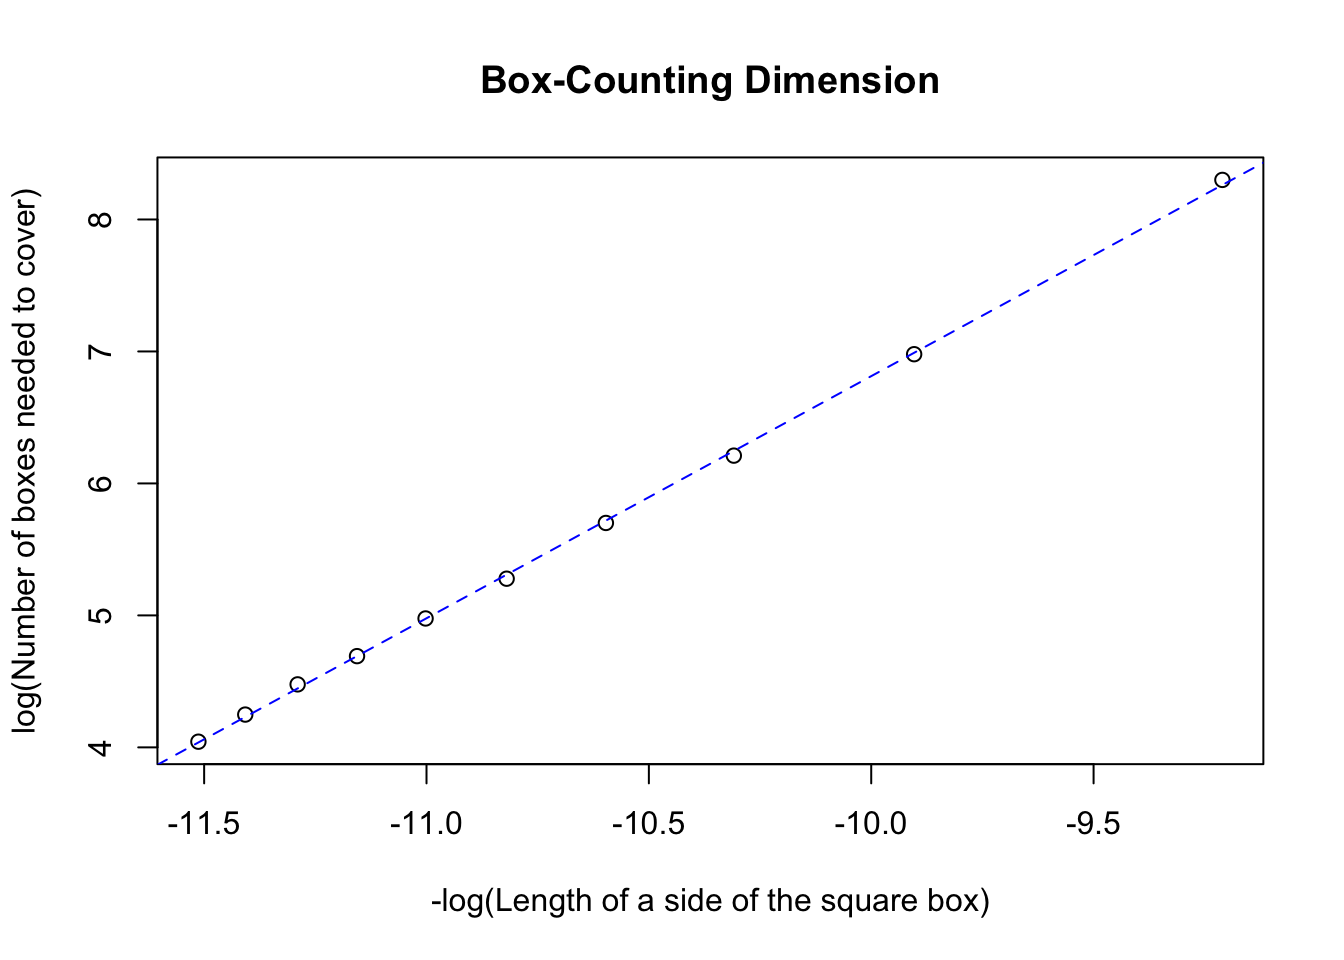
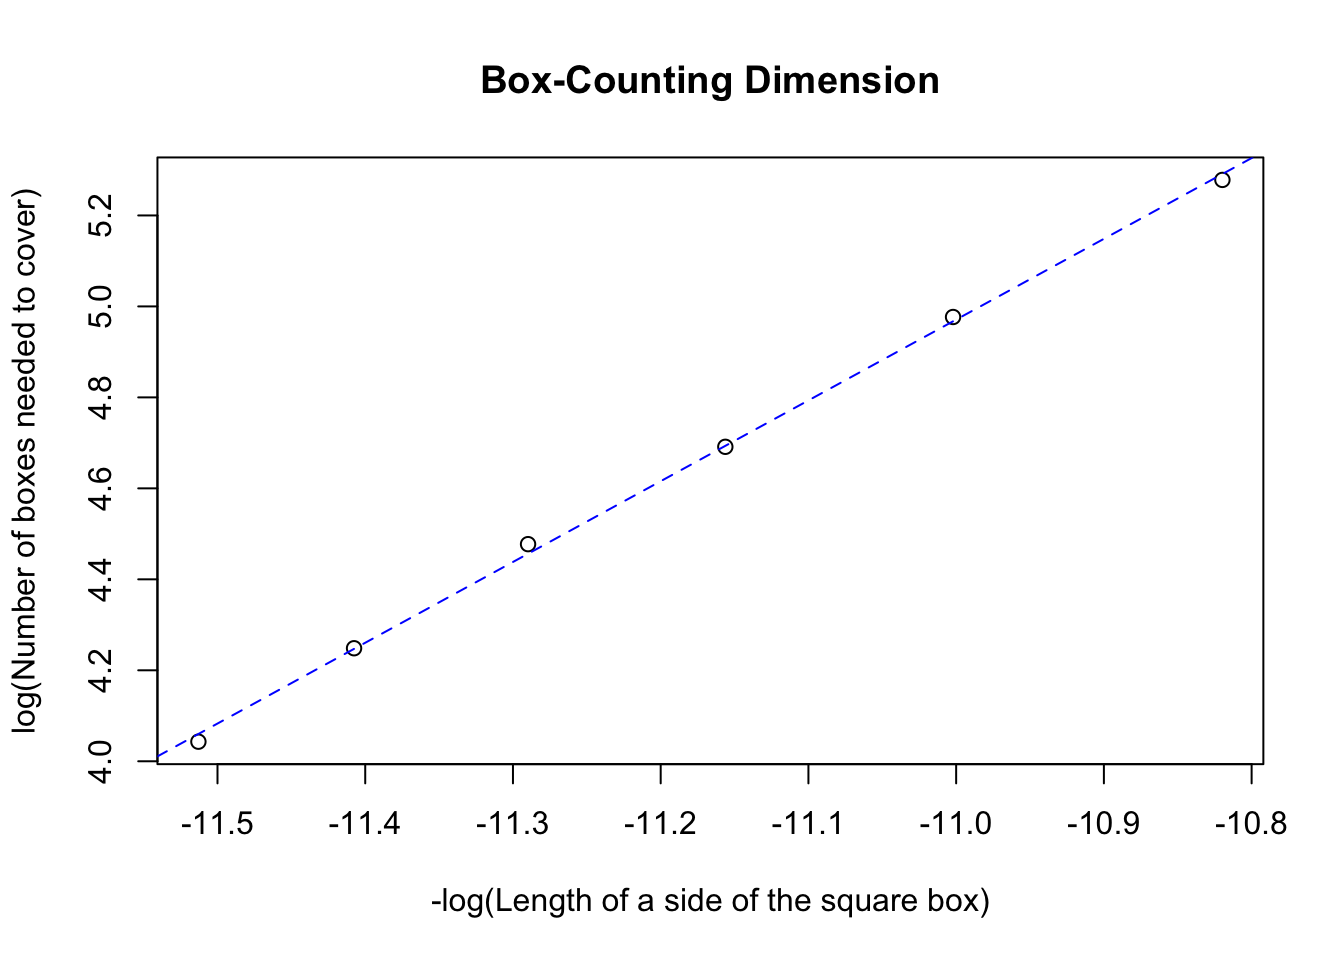
Built site for sameSVD: 0.2.0@f3ee008

diff --git a/articles/using_fdim.html b/articles/using_fdim.html
@@ -85,7 +85,7 @@
       <h1 data-toc-skip>Using sameSVD</h1>
                         <h4 class="author">Pramit Ghosh</h4>
             
-            <h4 class="date">2020-04-29</h4>
+            <h4 class="date">2020-05-12</h4>
       
       <small class="dont-index">Source: <a href="https://github.com/pramitghosh/sameSVD/blob/master/vignettes/using_fdim.Rmd"><code>vignettes/using_fdim.Rmd</code></a></small>
       <div class="hidden name"><code>using_fdim.Rmd</code></div>
@@ -125,7 +125,7 @@
 <ul>
 <li>If the feature is stored in an external file, it may be imported using the <code>dsn</code> and <code>layer</code> arguments in the function <code><a href="../reference/bcd.html">bcd()</a></code> along with any other arguments for <code><a href="https://rdrr.io/pkg/sf/man/st_read.html">sf::st_read()</a></code>. The <code>plot = TRUE</code> argument plots the scatterplot and the shows the best-fit line obtained from the simple linear regression. The default argument for <code>plot</code> is <code>FALSE</code>.</li>
 </ul>
-<div class="sourceCode" id="cb3"><html><body><pre class="r"><span class="fu"><a href="../reference/bcd.html">bcd</a></span>(<span class="kw">dsn</span> <span class="kw">=</span> <span class="fu"><a href="https://rdrr.io/r/base/system.file.html">system.file</a></span>(<span class="kw">package</span> <span class="kw">=</span> <span class="st">"sameSVD"</span>), <span class="kw">layer</span> <span class="kw">=</span> <span class="st">"madhya_pradesh"</span>, <span class="kw">plot</span> <span class="kw">=</span> <span class="fl">TRUE</span>)
+<div class="sourceCode" id="cb3"><html><body><pre class="r"><span class="no">mp</span> <span class="kw">=</span> <span class="fu"><a href="../reference/import_SVD.html">import_SVD</a></span>(<span class="kw">dsn</span> <span class="kw">=</span> <span class="fu"><a href="https://rdrr.io/r/base/system.file.html">system.file</a></span>(<span class="kw">package</span> <span class="kw">=</span> <span class="st">"sameSVD"</span>), <span class="kw">layer</span> <span class="kw">=</span> <span class="st">"madhya_pradesh"</span>)
 <span class="co">#&gt; Reading layer `madhya_pradesh' from data source `/Users/runner/runners/2.169.1/work/_temp/Library/sameSVD' using driver `ESRI Shapefile'</span>
 <span class="co">#&gt; Simple feature collection with 1 feature and 2 fields</span>
 <span class="co">#&gt; geometry type:  POLYGON</span>
@@ -134,26 +134,27 @@
 <span class="co">#&gt; CRS:            4326</span>
 <span class="co">#&gt; </span>
 <span class="co">#&gt; Note: Coordinates in Lat/Long; reprojecting to EPSG:3857...</span>
+<span class="fu"><a href="../reference/bcd.html">bcd</a></span>(<span class="kw">k</span> <span class="kw">=</span> <span class="no">mp</span>, <span class="kw">l</span> <span class="kw">=</span> <span class="fu"><a href="https://rdrr.io/r/base/seq.html">seq</a></span>(<span class="fl">50000</span>, <span class="fl">100000</span>, <span class="fl">10000</span>), <span class="kw">plot</span> <span class="kw">=</span> <span class="fl">TRUE</span>)
 <span class="co">#&gt; Generating grids...</span>
 <span class="co">#&gt; Counting intersecting cells...</span>
+<span class="co">#&gt; Performing simple linear regression to determine Box-Counting dimension...</span>
 <span class="co">#&gt; Plotting requested...</span></pre></body></html></div>
 <p><img src="using_fdim_files/figure-html/unnamed-chunk-3-1.png" width="672"></p>
-<pre><code>#&gt; Performing simple linear regression to determine Box-Counting dimension...
-#&gt; Plotting best-fit line...
-#&gt; [1] 1.834641</code></pre>
+<pre><code>#&gt; Plotting best-fit line...
+#&gt; [1] 1.776026</code></pre>
 <ul>
 <li>Alternatively, if the simple feature is already available to the user in the envrionment, it can be passed on to <code><a href="../reference/bcd.html">bcd()</a></code> as the the argument <code>x</code>. The sequence of cell-sizes to be tested can be optionally modified by explicitly passing the argument <code>l</code> to <code><a href="../reference/bcd.html">bcd()</a></code>.</li>
 </ul>
 <div class="sourceCode" id="cb5"><html><body><pre class="r"><span class="fu"><a href="https://rdrr.io/r/base/library.html">library</a></span>(<span class="st">'rnaturalearth'</span>)
-<span class="no">deutschland</span> <span class="kw">=</span> <span class="fu"><a href="https://rdrr.io/pkg/rnaturalearth/man/ne_countries.html">ne_countries</a></span>(<span class="kw">scale</span> <span class="kw">=</span> <span class="st">"medium"</span>, <span class="kw">country</span> <span class="kw">=</span> <span class="st">"Germany"</span>, <span class="kw">returnclass</span> <span class="kw">=</span> <span class="st">"sf"</span>)
-<span class="fu"><a href="../reference/bcd.html">bcd</a></span>(<span class="no">deutschland</span>, <span class="kw">l</span> <span class="kw">=</span> <span class="fu"><a href="https://rdrr.io/r/base/seq.html">seq</a></span>(<span class="fl">10000</span>, <span class="fl">100000</span>, <span class="fl">15000</span>), <span class="kw">plot</span> <span class="kw">=</span> <span class="fl">TRUE</span>)
+<span class="no">deutschland</span> <span class="kw">=</span> <span class="fu"><a href="../reference/import_SVD.html">import_SVD</a></span>(<span class="fu"><a href="https://rdrr.io/pkg/rnaturalearth/man/ne_countries.html">ne_countries</a></span>(<span class="kw">scale</span> <span class="kw">=</span> <span class="st">"medium"</span>, <span class="kw">country</span> <span class="kw">=</span> <span class="st">"Germany"</span>, <span class="kw">returnclass</span> <span class="kw">=</span> <span class="st">"sf"</span>))
 <span class="co">#&gt; Note: Coordinates in Lat/Long; reprojecting to EPSG:3857...</span>
+<span class="fu"><a href="../reference/bcd.html">bcd</a></span>(<span class="no">deutschland</span>, <span class="kw">l</span> <span class="kw">=</span> <span class="fu"><a href="https://rdrr.io/r/base/seq.html">seq</a></span>(<span class="fl">10000</span>, <span class="fl">100000</span>, <span class="fl">15000</span>), <span class="kw">plot</span> <span class="kw">=</span> <span class="fl">TRUE</span>)
 <span class="co">#&gt; Generating grids...</span>
 <span class="co">#&gt; Counting intersecting cells...</span>
+<span class="co">#&gt; Performing simple linear regression to determine Box-Counting dimension...</span>
 <span class="co">#&gt; Plotting requested...</span></pre></body></html></div>
 <p><img src="using_fdim_files/figure-html/unnamed-chunk-4-1.png" width="672"></p>
-<pre><code>#&gt; Performing simple linear regression to determine Box-Counting dimension...
-#&gt; Plotting best-fit line...
+<pre><code>#&gt; Plotting best-fit line...
 #&gt; [1] 1.893884</code></pre>
 <div id="internal-working" class="section level2">
 <h2 class="hasAnchor">

diff --git a/reference/bcd.html b/reference/bcd.html
@@ -124,7 +124,7 @@
   <div class="col-md-9 contents">
     <div class="page-header">
     <h1>Calculates the box-counting dimension of a polygon</h1>
-    <small class="dont-index">Source: <a href='https://github.com/pramitghosh/sameSVD/blob/master/R/script.R'><code>R/script.R</code></a></small>
+    <small class="dont-index">Source: <a href='https://github.com/pramitghosh/sameSVD/blob/master/R/self.R'><code>R/self.R</code></a></small>
     <div class="hidden name"><code>bcd.Rd</code></div>
     </div>
 
@@ -132,40 +132,34 @@
     <p>Calculates the box-counting dimension of a polygon</p>
     </div>
 
-    <pre class="usage"><span class='fu'>bcd</span>(<span class='kw'>x</span> <span class='kw'>=</span> <span class='kw'>NULL</span>, <span class='no'>dsn</span>, <span class='no'>layer</span>, <span class='kw'>l</span> <span class='kw'>=</span> <span class='fu'><a href='https://rdrr.io/r/base/seq.html'>seq</a></span>(<span class='fl'>10000</span>, <span class='fl'>1e+05</span>, <span class='fl'>10000</span>), <span class='kw'>plot</span> <span class='kw'>=</span> <span class='fl'>FALSE</span>, <span class='no'>...</span>)</pre>
+    <pre class="usage"><span class='fu'>bcd</span>(<span class='no'>k</span>, <span class='kw'>l</span> <span class='kw'>=</span> <span class='fu'><a href='https://rdrr.io/r/base/seq.html'>seq</a></span>(<span class='fl'>10000</span>, <span class='fl'>1e+05</span>, <span class='fl'>10000</span>), <span class='kw'>plot</span> <span class='kw'>=</span> <span class='fl'>FALSE</span>)
+
+<span class='co'># S3 method for self_similarity</span>
+<span class='fu'>bcd</span>(<span class='no'>k</span>, <span class='kw'>l</span> <span class='kw'>=</span> <span class='fu'><a href='https://rdrr.io/r/base/seq.html'>seq</a></span>(<span class='fl'>10000</span>, <span class='fl'>1e+05</span>, <span class='fl'>10000</span>), <span class='kw'>plot</span> <span class='kw'>=</span> <span class='fl'>FALSE</span>)
+
+<span class='co'># S3 method for self_affinity</span>
+<span class='fu'>bcd</span>(<span class='no'>k</span>, <span class='kw'>l</span> <span class='kw'>=</span> <span class='fu'><a href='https://rdrr.io/r/base/seq.html'>seq</a></span>(<span class='fl'>10000</span>, <span class='fl'>1e+05</span>, <span class='fl'>10000</span>), <span class='kw'>plot</span> <span class='kw'>=</span> <span class='fl'>FALSE</span>)</pre>
 
     <h2 class="hasAnchor" id="arguments"><a class="anchor" href="#arguments"></a>Arguments</h2>
     <table class="ref-arguments">
     <colgroup><col class="name" /><col class="desc" /></colgroup>
     <tr>
-      <th>x</th>
-      <td><p>Object of class `sf`</p></td>
-    </tr>
-    <tr>
-      <th>dsn</th>
-      <td><p>Data source name such as the directory where the file is located</p></td>
-    </tr>
-    <tr>
-      <th>layer</th>
-      <td><p>Layer name such as the filename of the file to be converted</p></td>
+      <th>k</th>
+      <td><p>Spatial Vector data as an `sf` object</p></td>
     </tr>
     <tr>
       <th>l</th>
-      <td><p>Numeric sequence of different cell sizes that will be used to generate the grid. The cell size represents the length of a side of a single square box of the grid</p></td>
+      <td><p>Numeric or matrix; represents sequence of cell side lengths that will be used to generate the grid. Numeric value represents the length of a side of a single square box of the grid to calculate self-similarity; matrix columns represents the length and width of rectangular cells for calculating self-affinity.</p></td>
     </tr>
     <tr>
       <th>plot</th>
       <td><p>Logical; if true, a log-log plot of the number of cells used to cover the polygon vs the cell size will be plotted</p></td>
     </tr>
-    <tr>
-      <th>...</th>
-      <td><p>Other arguments passed on to `st_read()` together with `dsn` and `layer`</p></td>
-    </tr>
     </table>
 
     <h2 class="hasAnchor" id="value"><a class="anchor" href="#value"></a>Value</h2>
 
-    <p>A numeric vector of length 1 representing the box-counting dimension of the polygon</p>
+    <p>A numeric vector representing the box-counting dimension of the spatial feature, `k`.</p>
 
   </div>
   <div class="col-md-3 hidden-xs hidden-sm" id="pkgdown-sidebar">

diff --git a/articles/points.html b/articles/points.html
@@ -85,7 +85,7 @@
       <h1 data-toc-skip>Box-Counting dimension of point datasets</h1>
                         <h4 class="author">Pramit Ghosh</h4>
             
-            <h4 class="date">2020-04-29</h4>
+            <h4 class="date">2020-05-12</h4>
       
       <small class="dont-index">Source: <a href="https://github.com/pramitghosh/sameSVD/blob/master/vignettes/points.Rmd"><code>vignettes/points.Rmd</code></a></small>
       <div class="hidden name"><code>points.Rmd</code></div>
@@ -134,10 +134,10 @@
 <div class="sourceCode" id="cb5"><html><body><pre class="r"><span class="fu"><a href="../reference/bcd.html">bcd</a></span>(<span class="no">two_points</span>, <span class="kw">l</span> <span class="kw">=</span> <span class="fu"><a href="https://rdrr.io/r/base/seq.html">seq</a></span>(<span class="fl">0.1</span>, <span class="fl">1</span>, <span class="fl">0.1</span>), <span class="kw">plot</span> <span class="kw">=</span> <span class="fl">TRUE</span>)
 <span class="co">#&gt; Generating grids...</span>
 <span class="co">#&gt; Counting intersecting cells...</span>
+<span class="co">#&gt; Performing simple linear regression to determine Box-Counting dimension...</span>
 <span class="co">#&gt; Plotting requested...</span></pre></body></html></div>
 <p><img src="points_files/figure-html/unnamed-chunk-5-1.png" width="672"></p>
-<pre><code>#&gt; Performing simple linear regression to determine Box-Counting dimension...
-#&gt; Plotting best-fit line...
+<pre><code>#&gt; Plotting best-fit line...
 #&gt; [1] 0</code></pre>
 <p>The linear regression gives a perfectly horizontal best-fit line indicating a Box-Counting dimension of 0, as expected.</p>
 </div>
@@ -180,21 +180,21 @@
 <span class="co">#&gt; Simple feature collection with 1 feature and 0 fields</span>
 <span class="co">#&gt; geometry type:  MULTIPOINT</span>
 <span class="co">#&gt; dimension:      XY</span>
-<span class="co">#&gt; bbox:           xmin: 0.001431609 ymin: 0 xmax: 0.9971499 ymax: 0.8636065</span>
+<span class="co">#&gt; bbox:           xmin: 0.002162498 ymin: 2.734709e-07 xmax: 0.9983608 ymax: 0.8601136</span>
 <span class="co">#&gt; CRS:            EPSG:3857</span>
 <span class="co">#&gt;   st_sfc.st_multipoint.sierpinski_pts...crs...3857.</span>
-<span class="co">#&gt; 1                    MULTIPOINT ((0.5 0), (0.75 ...</span>
+<span class="co">#&gt; 1                    MULTIPOINT ((0.25 0.4330127...</span>
 <span class="fu"><a href="https://rdrr.io/pkg/sf/man/plot.html">plot</a></span>(<span class="no">sierpinski_sf</span>, <span class="kw">axes</span> <span class="kw">=</span> <span class="fl">TRUE</span>)</pre></body></html></div>
 <p><img src="points_files/figure-html/unnamed-chunk-8-1.png" width="672"></p>
 <p>The Box-Counting Dimension of this figure is calculated using <code><a href="../reference/bcd.html">bcd()</a></code> as illustrated below.</p>
 <div class="sourceCode" id="cb10"><html><body><pre class="r"><span class="fu"><a href="../reference/bcd.html">bcd</a></span>(<span class="no">sierpinski_sf</span>, <span class="kw">l</span> <span class="kw">=</span> <span class="fu"><a href="https://rdrr.io/r/base/seq.html">seq</a></span>(<span class="fl">0.01</span>, <span class="fl">0.1</span>, <span class="fl">0.01</span>), <span class="kw">plot</span> <span class="kw">=</span> <span class="fl">TRUE</span>)
 <span class="co">#&gt; Generating grids...</span>
 <span class="co">#&gt; Counting intersecting cells...</span>
+<span class="co">#&gt; Performing simple linear regression to determine Box-Counting dimension...</span>
 <span class="co">#&gt; Plotting requested...</span></pre></body></html></div>
 <p><img src="points_files/figure-html/unnamed-chunk-9-1.png" width="672"></p>
-<pre><code>#&gt; Performing simple linear regression to determine Box-Counting dimension...
-#&gt; Plotting best-fit line...
-#&gt; [1] 1.597096</code></pre>
+<pre><code>#&gt; Plotting best-fit line...
+#&gt; [1] 1.599228</code></pre>
 <p>The regression gives a Box-Counting dimension of ~1.59 which is very close to the theoretical value.</p>
 </div>
 </div>

diff --git a/index.html b/index.html
@@ -5,13 +5,13 @@
 <meta charset="utf-8">
 <meta http-equiv="X-UA-Compatible" content="IE=edge">
 <meta name="viewport" content="width=device-width, initial-scale=1.0">
-<title>Box-Counting Dimension of a Simple Feature Polygon • sameSVD</title>
+<title>Similarity and Affinity Measures for Spatial Vector Data • sameSVD</title>
 <!-- jquery --><script src="https://cdnjs.cloudflare.com/ajax/libs/jquery/3.4.1/jquery.min.js" integrity="sha256-CSXorXvZcTkaix6Yvo6HppcZGetbYMGWSFlBw8HfCJo=" crossorigin="anonymous"></script><!-- Bootstrap --><link rel="stylesheet" href="https://cdnjs.cloudflare.com/ajax/libs/twitter-bootstrap/3.4.1/css/bootstrap.min.css" integrity="sha256-bZLfwXAP04zRMK2BjiO8iu9pf4FbLqX6zitd+tIvLhE=" crossorigin="anonymous">
 <script src="https://cdnjs.cloudflare.com/ajax/libs/twitter-bootstrap/3.4.1/js/bootstrap.min.js" integrity="sha256-nuL8/2cJ5NDSSwnKD8VqreErSWHtnEP9E7AySL+1ev4=" crossorigin="anonymous"></script><!-- bootstrap-toc --><link rel="stylesheet" href="bootstrap-toc.css">
 <script src="bootstrap-toc.js"></script><!-- Font Awesome icons --><link rel="stylesheet" href="https://cdnjs.cloudflare.com/ajax/libs/font-awesome/5.12.1/css/all.min.css" integrity="sha256-mmgLkCYLUQbXn0B1SRqzHar6dCnv9oZFPEC1g1cwlkk=" crossorigin="anonymous">
 <link rel="stylesheet" href="https://cdnjs.cloudflare.com/ajax/libs/font-awesome/5.12.1/css/v4-shims.min.css" integrity="sha256-wZjR52fzng1pJHwx4aV2AO3yyTOXrcDW7jBpJtTwVxw=" crossorigin="anonymous">
 <!-- clipboard.js --><script src="https://cdnjs.cloudflare.com/ajax/libs/clipboard.js/2.0.6/clipboard.min.js" integrity="sha256-inc5kl9MA1hkeYUt+EC3BhlIgyp/2jDIyBLS6k3UxPI=" crossorigin="anonymous"></script><!-- headroom.js --><script src="https://cdnjs.cloudflare.com/ajax/libs/headroom/0.11.0/headroom.min.js" integrity="sha256-AsUX4SJE1+yuDu5+mAVzJbuYNPHj/WroHuZ8Ir/CkE0=" crossorigin="anonymous"></script><script src="https://cdnjs.cloudflare.com/ajax/libs/headroom/0.11.0/jQuery.headroom.min.js" integrity="sha256-ZX/yNShbjqsohH1k95liqY9Gd8uOiE1S4vZc+9KQ1K4=" crossorigin="anonymous"></script><!-- pkgdown --><link href="pkgdown.css" rel="stylesheet">
-<script src="pkgdown.js"></script><meta property="og:title" content="Box-Counting Dimension of a Simple Feature Polygon">
+<script src="pkgdown.js"></script><meta property="og:title" content="Similarity and Affinity Measures for Spatial Vector Data">
 <meta property="og:description" content="Provides an implementation in R to calculate measures of (self-)similarity and (self-)affinity of spatial vector data.">
 <!-- mathjax --><script src="https://cdnjs.cloudflare.com/ajax/libs/mathjax/2.7.5/MathJax.js" integrity="sha256-nvJJv9wWKEm88qvoQl9ekL2J+k/RWIsaSScxxlsrv8k=" crossorigin="anonymous"></script><script src="https://cdnjs.cloudflare.com/ajax/libs/mathjax/2.7.5/config/TeX-AMS-MML_HTMLorMML.js" integrity="sha256-84DKXVJXs0/F8OTMzX4UR909+jtl4G7SPypPavF+GfA=" crossorigin="anonymous"></script><!--[if lt IE 9]>
 <script src="https://oss.maxcdn.com/html5shiv/3.7.3/html5shiv.min.js"></script>

diff --git a/reference/import_SVD.html b/reference/import_SVD.html
@@ -6,7 +6,7 @@
 <meta http-equiv="X-UA-Compatible" content="IE=edge">
 <meta name="viewport" content="width=device-width, initial-scale=1.0">
 
-<title>Counts the number of grid cells required to cover the shape polygon — count_cells • sameSVD</title>
+<title>Import Spatial Vector Data — import_SVD • sameSVD</title>
 
 
 <!-- jquery -->
@@ -39,8 +39,8 @@
 
 
 
-<meta property="og:title" content="Counts the number of grid cells required to cover the shape polygon — count_cells" />
-<meta property="og:description" content="Counts the number of grid cells required to cover the shape polygon" />
+<meta property="og:title" content="Import Spatial Vector Data — import_SVD" />
+<meta property="og:description" content="Import Spatial Vector Data" />
 
 
 
@@ -123,33 +123,41 @@
 <div class="row">
   <div class="col-md-9 contents">
     <div class="page-header">
-    <h1>Counts the number of grid cells required to cover the shape polygon</h1>
+    <h1>Import Spatial Vector Data</h1>
     <small class="dont-index">Source: <a href='https://github.com/pramitghosh/sameSVD/blob/master/R/self_utilities.R'><code>R/self_utilities.R</code></a></small>
-    <div class="hidden name"><code>count_cells.Rd</code></div>
+    <div class="hidden name"><code>import_SVD.Rd</code></div>
     </div>
 
     <div class="ref-description">
-    <p>Counts the number of grid cells required to cover the shape polygon</p>
+    <p>Import Spatial Vector Data</p>
     </div>
 
-    <pre class="usage"><span class='fu'>count_cells</span>(<span class='no'>grid</span>, <span class='no'>f</span>)</pre>
+    <pre class="usage"><span class='fu'>import_SVD</span>(<span class='kw'>x</span> <span class='kw'>=</span> <span class='kw'>NULL</span>, <span class='no'>dsn</span>, <span class='no'>layer</span>, <span class='no'>...</span>)</pre>
 
     <h2 class="hasAnchor" id="arguments"><a class="anchor" href="#arguments"></a>Arguments</h2>
     <table class="ref-arguments">
     <colgroup><col class="name" /><col class="desc" /></colgroup>
     <tr>
-      <th>grid</th>
-      <td><p>The grid as an object of class sfc</p></td>
+      <th>x</th>
+      <td><p>Object of class `sf`</p></td>
     </tr>
     <tr>
-      <th>f</th>
-      <td><p>sf object that the grid is based on</p></td>
+      <th>dsn</th>
+      <td><p>Data source name such as the directory where the file is located</p></td>
+    </tr>
+    <tr>
+      <th>layer</th>
+      <td><p>Layer name such as the filename of the file to be converted</p></td>
+    </tr>
+    <tr>
+      <th>...</th>
+      <td><p>Other arguments passed on to `sf::st_read()` together with `dsn` and `layer`</p></td>
     </tr>
     </table>
 
     <h2 class="hasAnchor" id="value"><a class="anchor" href="#value"></a>Value</h2>
 
-    <p>The number of grid cells of grid required to cover the polygon f</p>
+    <p>Object of class `sf`. If CRS of the original data is in Long/Lat, it is transformed to EPSG:3857</p>
 
   </div>
   <div class="col-md-3 hidden-xs hidden-sm" id="pkgdown-sidebar">

diff --git a/reference/overlay_grid.html b/reference/overlay_grid.html
@@ -124,7 +124,7 @@
   <div class="col-md-9 contents">
     <div class="page-header">
     <h1>Create grids for polygons supplied as arguments</h1>
-    <small class="dont-index">Source: <a href='https://github.com/pramitghosh/sameSVD/blob/master/R/script.R'><code>R/script.R</code></a></small>
+    <small class="dont-index">Source: <a href='https://github.com/pramitghosh/sameSVD/blob/master/R/self_utilities.R'><code>R/self_utilities.R</code></a></small>
     <div class="hidden name"><code>overlay_grid.Rd</code></div>
     </div>
 

diff --git a/reference/import_sf.html b/reference/import_sf.html
@@ -124,7 +124,7 @@
   <div class="col-md-9 contents">
     <div class="page-header">
     <h1>Wrapper for `sf::st_read()``</h1>
-    <small class="dont-index">Source: <a href='https://github.com/pramitghosh/sameSVD/blob/master/R/script.R'><code>R/script.R</code></a></small>
+    <small class="dont-index">Source: <a href='https://github.com/pramitghosh/sameSVD/blob/master/R/self_utilities.R'><code>R/self_utilities.R</code></a></small>
     <div class="hidden name"><code>import_sf.Rd</code></div>
     </div>
 

diff --git a/reference/index.html b/reference/index.html
@@ -160,6 +160,12 @@
       </tr><tr>
         
         <td>
+          <p><code><a href="import_SVD.html">import_SVD()</a></code> </p>
+        </td>
+        <td><p>Import Spatial Vector Data</p></td>
+      </tr><tr>
+        
+        <td>
           <p><code><a href="import_sf.html">import_sf()</a></code> </p>
         </td>
         <td><p>Wrapper for `sf::st_read()``</p></td>
